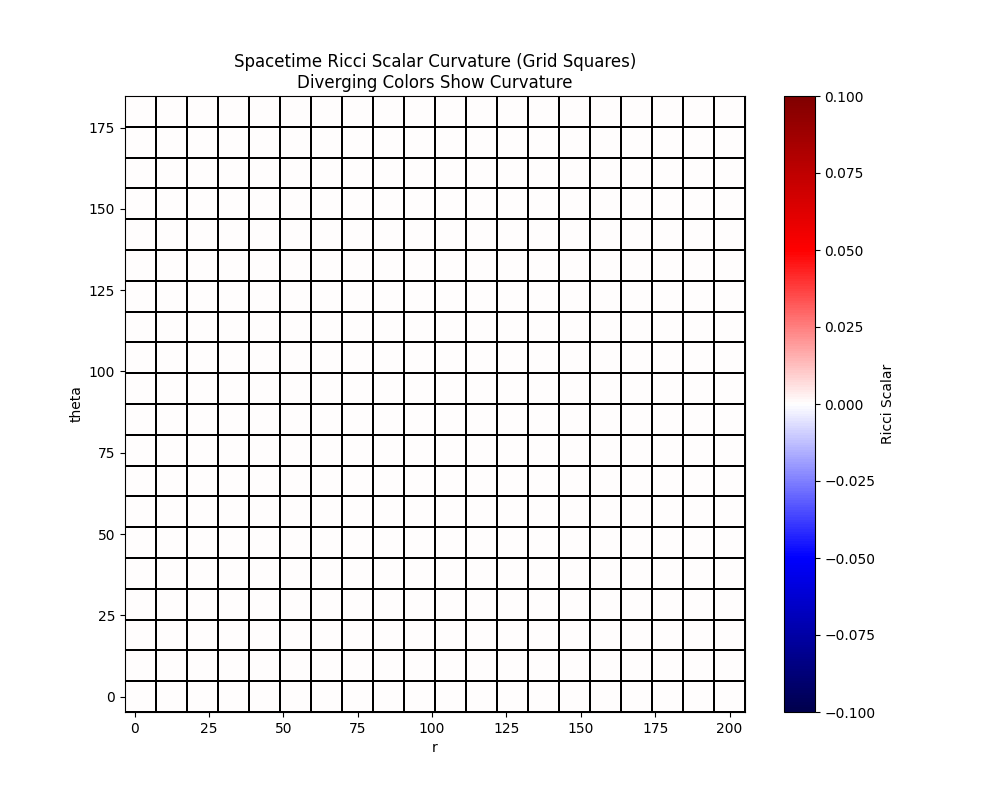
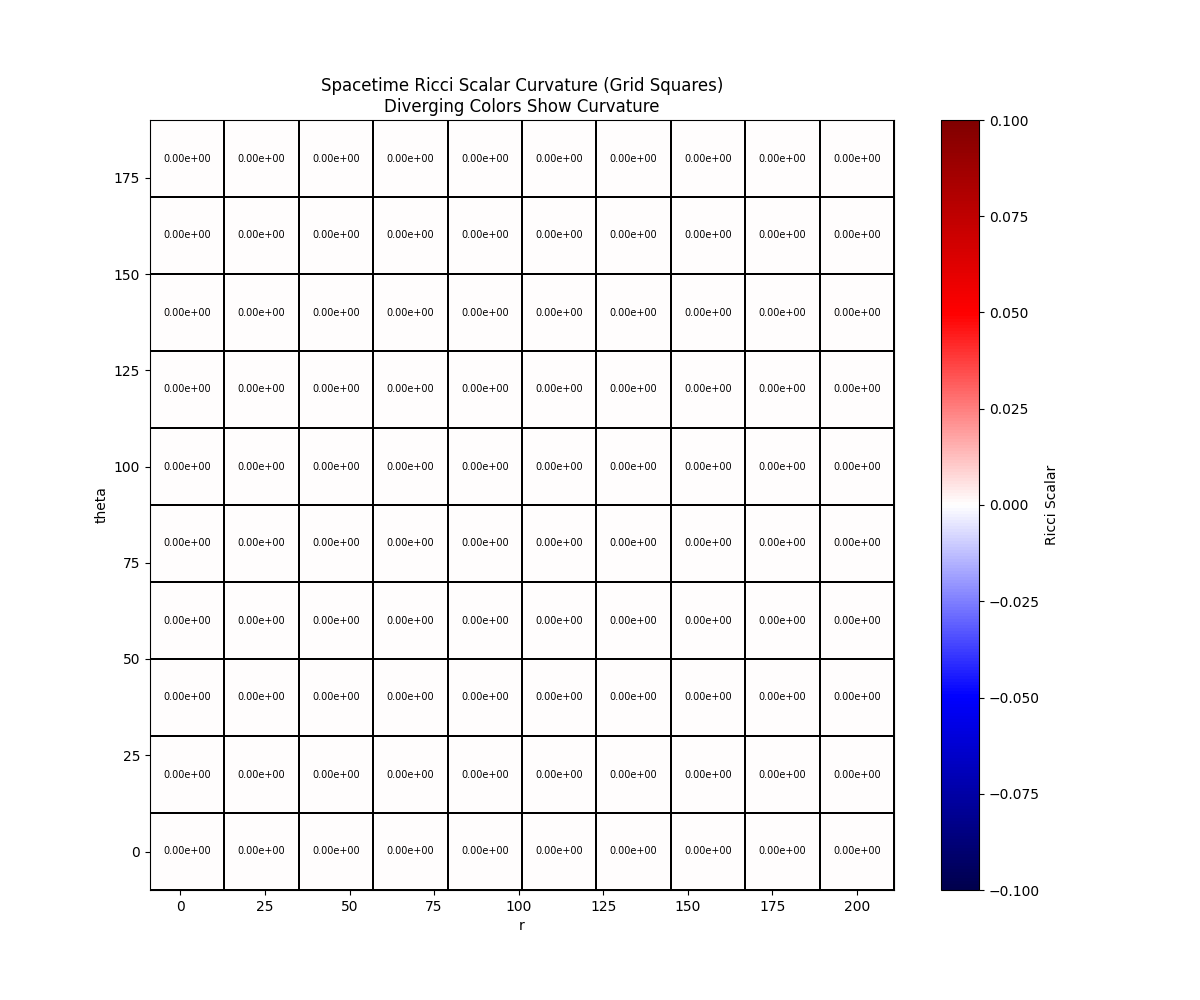
Enhance Ricci scalar grid plot with annotations and colormap
Refactored plot_ricci_scalar_grid to use a diverging colormap, print Ricci scalar values inside each grid cell, and adjusted the default number of points to 20. Updated the sample script to use num_points=10 for faster plotting. The plot is now more informative and visually highlights curvature.

diff --git a/spacetimeengine/src/spacetime.py b/spacetimeengine/src/spacetime.py
@@ -2990,81 +2990,11 @@ class SpaceTime:
             for nu in self.dimensions:
                 self.print_schouten_coefficient(index_config, mu, nu)
 
-    def plot_ricci_scalar_grid(self, x_range, y_range, x_index=0, y_index=1, num_points=100, save_path=None):
-        """
-        Plots the Ricci scalar over a grid defined by x_range and y_range.
-        Assumes coordinate_set[x_index] and coordinate_set[y_index] are the spatial coordinates.
-        If save_path is provided, saves the plot to that location.
-        """
-
-        # Change the default save_path filename
-        if save_path is None:
-            save_path = "C:/Users/lcart/Documents/GitHub/spacetime-toolkit/mnt/data/images/spacetime_ricci_scalar_grid.png"
-
-        x_vals = np.linspace(x_range[0], x_range[1], num_points)
-        y_vals = np.linspace(y_range[0], y_range[1], num_points)
-        ricci_grid = np.zeros((num_points, num_points))
-
-        # Substitute values into Ricci scalar
-        ricci_expr = self.ricci_scalar
-        x_sym = self.coordinate_set[x_index]
-        y_sym = self.coordinate_set[y_index]
-
-        for i, x in enumerate(x_vals):
-            for j, y in enumerate(y_vals):
-                ricci_grid[j, i] = float(ricci_expr.subs({x_sym: x, y_sym: y}))
-
-        plt.imshow(ricci_grid, extent=(x_range[0], x_range[1], y_range[0], y_range[1]), origin='lower')
-        plt.colorbar(label='Ricci Scalar')
-        plt.xlabel(str(x_sym))
-        plt.ylabel(str(y_sym))
-        plt.title('Spacetime Ricci Scalar Curvature')
-        if save_path:
-            # Ensure directory exists
-            os.makedirs(os.path.dirname(save_path), exist_ok=True)
-            plt.savefig(save_path)
-        else:
-            plt.show()
-        plt.close()
-
-    def plot_ricci_scalar_grid(self, x_range, y_range, x_index=0, y_index=1, num_points=100, save_path=None):
-        """
-        Plots the Ricci scalar over a grid defined by x_range and y_range.
-        Each cell is shown as an individual square.
-        """
-        if save_path is None:
-            save_path = "mnt/data/spacetime_ricci_scalar_grid.png"
-
-        x_vals = np.linspace(x_range[0], x_range[1], num_points)
-        y_vals = np.linspace(y_range[0], y_range[1], num_points)
-        ricci_grid = np.zeros((num_points, num_points))
-
-        ricci_expr = self.ricci_scalar
-        x_sym = self.coordinate_set[x_index]
-        y_sym = self.coordinate_set[y_index]
-
-        for i, x in enumerate(x_vals):
-            for j, y in enumerate(y_vals):
-                ricci_grid[j, i] = float(ricci_expr.subs({x_sym: x, y_sym: y}))
-
-        X, Y = np.meshgrid(x_vals, y_vals)
-        plt.figure(figsize=(8, 6))
-        mesh = plt.pcolormesh(X, Y, ricci_grid, shading='auto', edgecolors='k', linewidth=0.2)
-        plt.colorbar(mesh, label='Ricci Scalar')
-        plt.xlabel(str(x_sym))
-        plt.ylabel(str(y_sym))
-        plt.title('Spacetime Ricci Scalar Curvature (Grid Squares)')
-        if save_path:
-            os.makedirs(os.path.dirname(save_path), exist_ok=True)
-            plt.savefig(save_path)
-        else:
-            plt.show()
-        plt.close()
-
-    def plot_ricci_scalar_grid(self, x_range, y_range, x_index=0, y_index=1, num_points=100, save_path=None):
+    def plot_ricci_scalar_grid(self, x_range, y_range, x_index=0, y_index=1, num_points=20, save_path=None):
         """
         Plots the Ricci scalar over a grid defined by x_range and y_range.
         Each cell is shown as an individual square, with a diverging colormap to highlight curvature.
+        The Ricci scalar value is printed inside each square.
         """
         if save_path is None:
             save_path = "mnt/data/spacetime_ricci_scalar_grid.png"
@@ -3089,12 +3019,23 @@ class SpaceTime:
         vmin, vmax = -abs_max, abs_max
 
         X, Y = np.meshgrid(x_vals, y_vals)
-        plt.figure(figsize=(10, 8))
+        plt.figure(figsize=(12, 10))
         mesh = plt.pcolormesh(X, Y, ricci_grid, shading='auto', cmap='seismic', vmin=vmin, vmax=vmax, edgecolors='k', linewidth=0.2)
         plt.colorbar(mesh, label='Ricci Scalar')
         plt.xlabel(str(x_sym))
         plt.ylabel(str(y_sym))
         plt.title('Spacetime Ricci Scalar Curvature (Grid Squares)\nDiverging Colors Show Curvature')
+
+        # Annotate each cell with its value
+        for i in range(num_points):
+            for j in range(num_points):
+                val = ricci_grid[j, i]
+                if not np.isnan(val):
+                    plt.text(
+                        x_vals[i], y_vals[j], f"{val:.2e}",
+                        ha='center', va='center', fontsize=7, color='black'
+                    )
+
         if save_path:
             os.makedirs(os.path.dirname(save_path), exist_ok=True)
             plt.savefig(save_path)

diff --git a/spacetimeengine/samples/einstein_field_equations_visualization.py b/spacetimeengine/samples/einstein_field_equations_visualization.py
@@ -8,7 +8,7 @@ def main():
 
     # Plot Ricci scalar curvature for Schwarzschild spacetime
     # Adjust x_range and y_range as needed for your coordinates
-    blackhole_spacetime.plot_ricci_scalar_grid(x_range=(2, 200), y_range=(0, 180), x_index=1, y_index=2, num_points=20)
+    blackhole_spacetime.plot_ricci_scalar_grid(x_range=(2, 200), y_range=(0, 180), x_index=1, y_index=2, num_points=10)
 
 if __name__ == "__main__":
     main()
